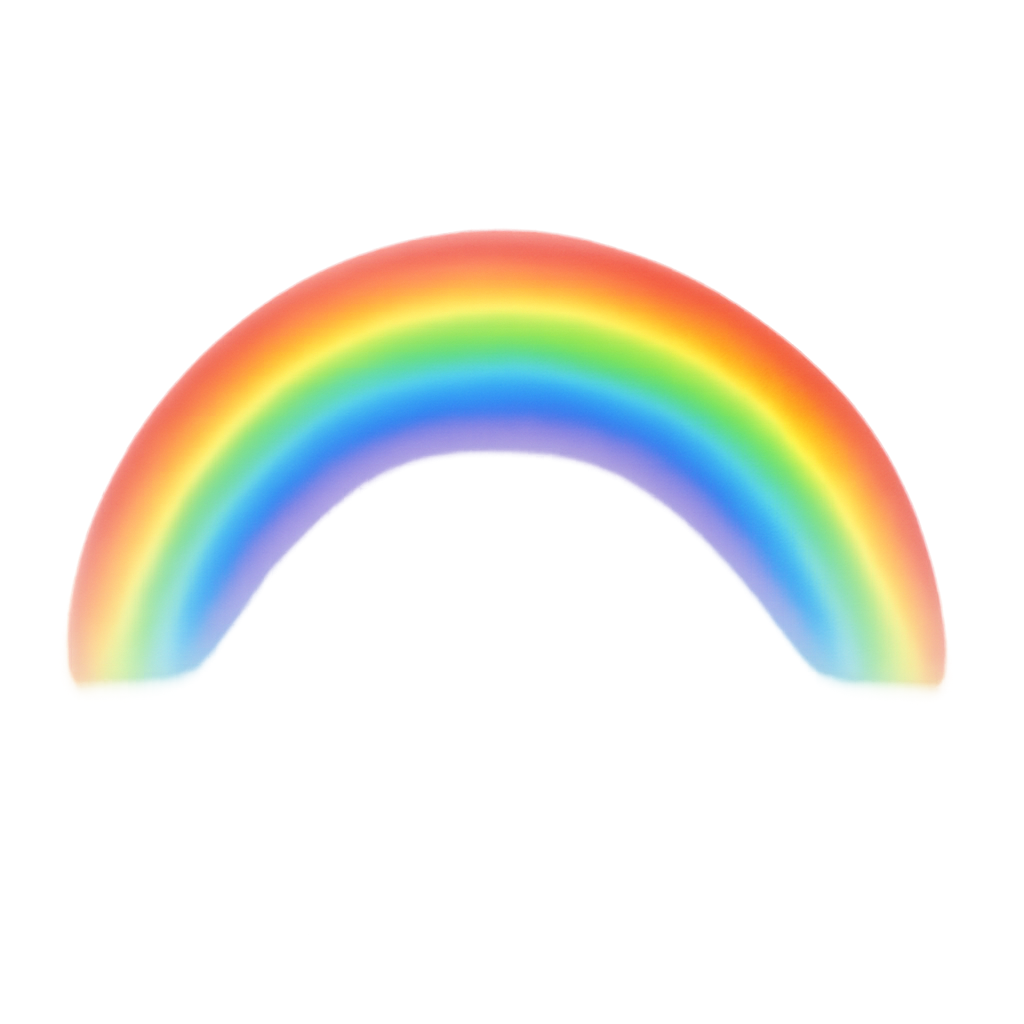
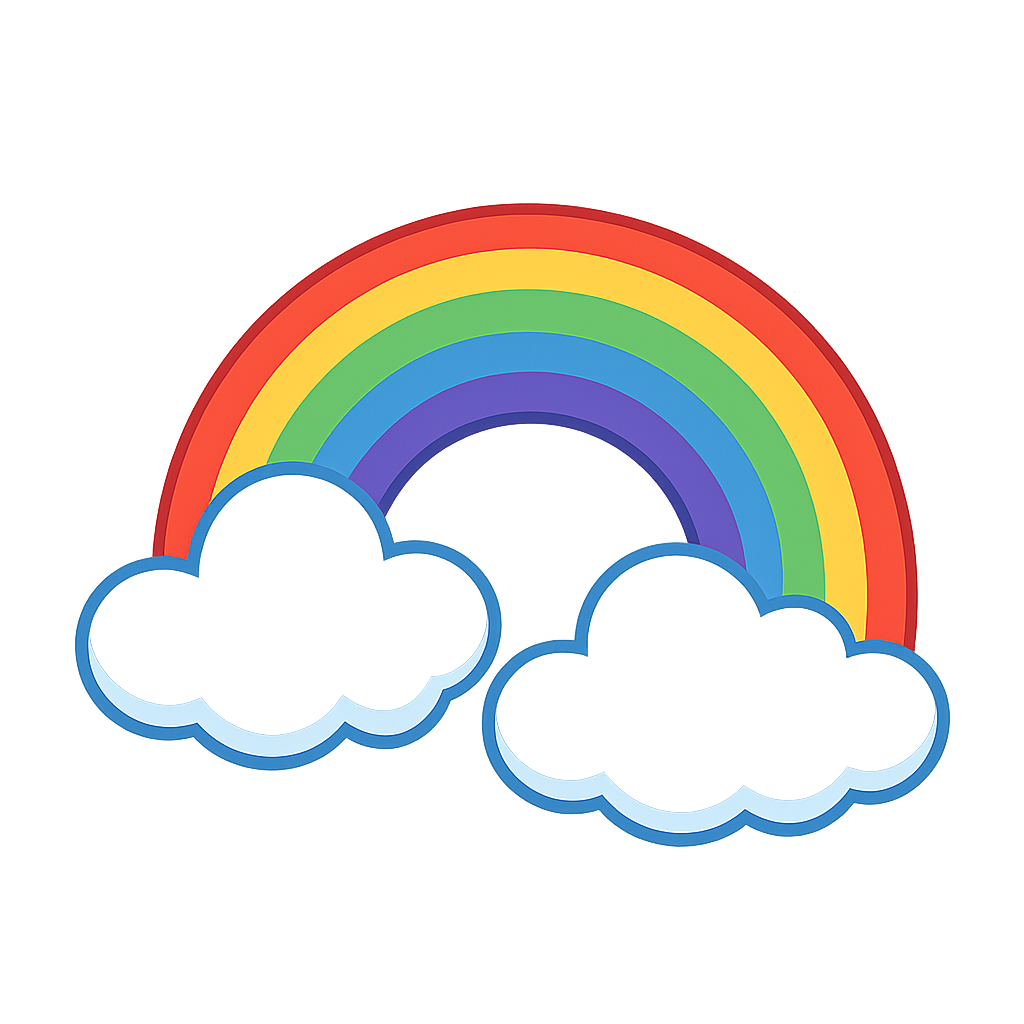
Add new rainbow images and update slides for enhanced visual presentation

Changed region(s): [[0.0625, 0.1875, 0.9375, 0.8438]]

diff --git a/slides/intro.js b/slides/intro.js
@@ -10,5 +10,10 @@ export default {
     "and best practices to ensure your applications are robust and reliable.\n" +
     "\n" +
     "Let's dive in and add some color to your testing approach!",
+  image: {
+    src: "assets/images/rainbow01.png",
+    alt: "Rainbow Testing Intro Image",
+    caption: "Embrace the colors of testing",
+  },
   transition: { type: "fade", duration: 550, easing: "ease-out" },
 };

diff --git a/slides/outro.js b/slides/outro.js
@@ -5,7 +5,7 @@ export default {
   subtitle: "\u00a0\u00a0\u00a0\u00a0\u00a0\u00a0\u00a0of show",
   body: "Thank you for joining this colorful journey through Rainbow Testing!",
   image: {
-    src: "assets/images/rainbow01.png",
+    src: "assets/images/rainbowtest.png",
     alt: "Rainbow Testing Outro Image",
   },
   transition: { type: "fade", duration: 500, easing: "ease-in" },

diff --git a/presentations/rainbowTesting.js b/presentations/rainbowTesting.js
@@ -48,6 +48,11 @@ const textSlideOverrides = [
     subtitle: "Validate quickly",
     body:
       "New features start in blue: fast feedback loops with feature flags, canaries, and targeted test paths.",
+    image: {
+      src: "assets/images/rainbow04.png",
+      alt: "Rainbow Testing blue zone",
+      caption: "Innovate safely in the blue zone",
+    },  
   },
 ];
 

diff --git a/styles/styles.css b/styles/styles.css
@@ -185,13 +185,6 @@ body {
   align-content: start;
 }
 
-.slide.slide-type-finale {
-  display: grid;
-  place-items: center;
-  grid-template-rows: 1fr;
-  text-align: center;
-}
-
 .slide.is-active {
   opacity: 1;
   pointer-events: auto;
